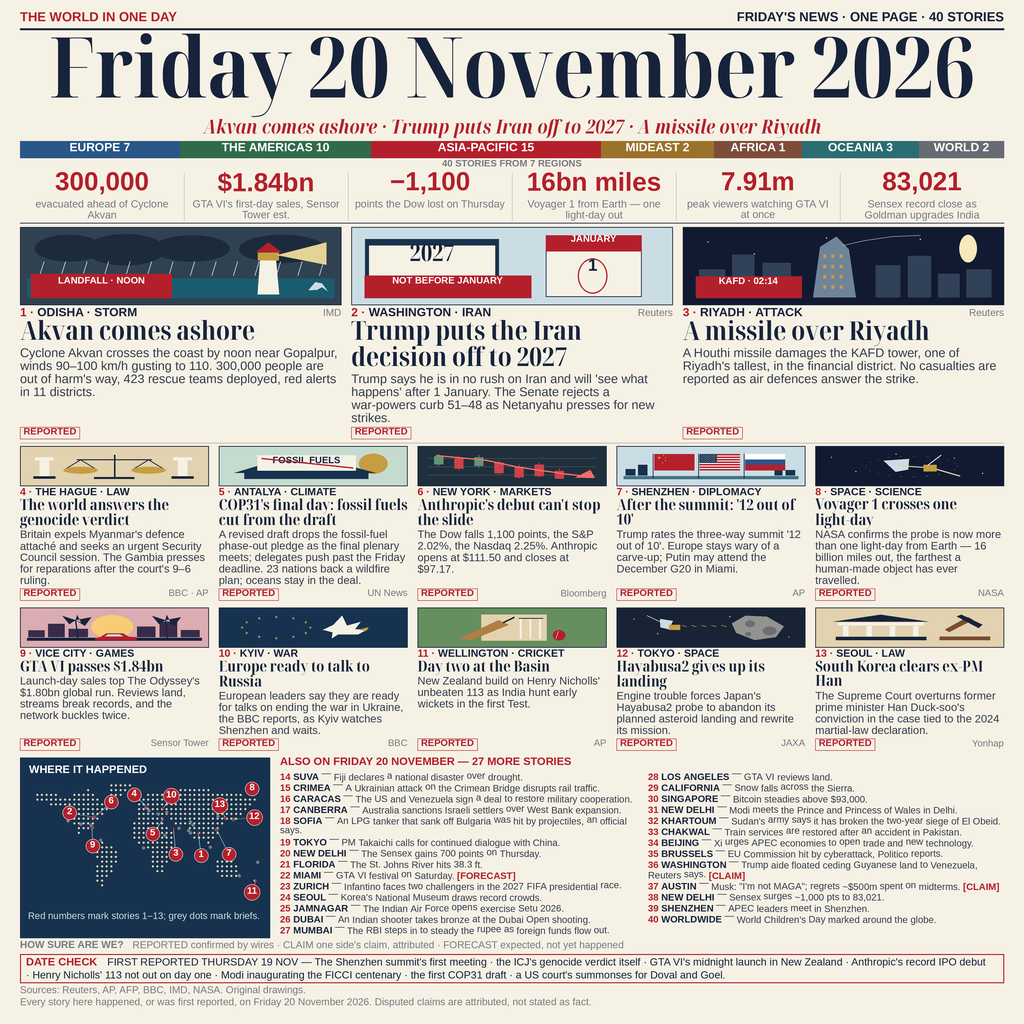
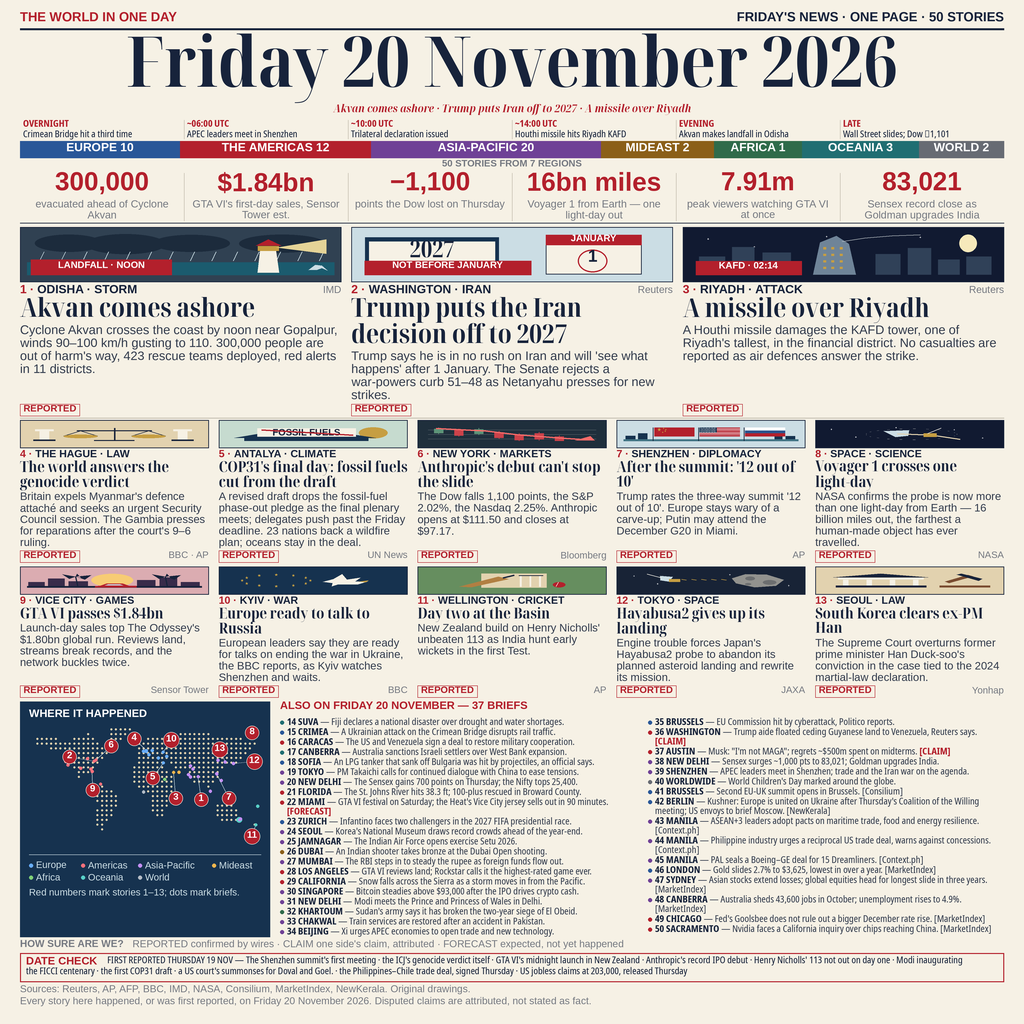
Fifty stories, UTC timeline, region colours; match the new #1

diff --git a/gen.py b/gen.py
@@ -44,6 +44,8 @@ FONT_PATHS = {
         "/usr/share/fonts/truetype/liberation/LiberationSans-Regular.ttf",
         "/usr/share/fonts/truetype/dejavu/DejaVuSans.ttf",
     ],
+    "sans_cond": ["/usr/share/fonts/truetype/noto/NotoSansDisplay-Condensed.ttf"],
+    "sans_cond_bold": ["/usr/share/fonts/truetype/noto/NotoSansDisplay-CondensedBold.ttf"],
 }
 
 
@@ -112,6 +114,16 @@ BRIEFS = [
     (38, "NEW DELHI", "Sensex surges ~1,000 pts to 83,021; Goldman upgrades India."),
     (39, "SHENZHEN", "APEC leaders meet in Shenzhen; trade and the Iran war on the agenda."),
     (40, "WORLDWIDE", "World Children's Day marked around the globe."),
+    (41, "BRUSSELS", "Second EU-UK summit opens in Brussels. [Consilium]"),
+    (42, "BERLIN", "Kushner: Europe is united on Ukraine after Thursday's Coalition of the Willing meeting; US envoys to brief Moscow. [NewKerala]"),
+    (43, "MANILA", "ASEAN+3 leaders adopt pacts on maritime trade, food and energy resilience. [Context.ph]"),
+    (44, "MANILA", "Philippine industry urges a reciprocal US trade deal, warns against concessions. [Context.ph]"),
+    (45, "MANILA", "PAL seals a Boeing–GE deal for 15 Dreamliners. [Context.ph]"),
+    (46, "LONDON", "Gold slides 2.7% to $3,625, lowest in over a year. [MarketIndex]"),
+    (47, "SYDNEY", "Asian stocks extend losses; global equities head for longest slide in three years. [MarketIndex]"),
+    (48, "CANBERRA", "Australia sheds 43,600 jobs in October; unemployment rises to 4.9%. [MarketIndex]"),
+    (49, "CHICAGO", "Fed's Goolsbee does not rule out a bigger December rate rise. [MarketIndex]"),
+    (50, "SACRAMENTO", "Nvidia faces a California inquiry over chips reaching China. [MarketIndex]"),
 ]
 
 STATS = [
@@ -123,16 +135,25 @@ STATS = [
     ("83,021", "Sensex record close as Goldman upgrades India"),
 ]
 REGIONS = [
-    ("EUROPE", 7, (41, 87, 134)),
-    ("THE AMERICAS", 10, (47, 107, 74)),
-    ("ASIA-PACIFIC", 15, RED),
-    ("MIDEAST", 2, (155, 114, 42)),
-    ("AFRICA", 1, (125, 77, 58)),
-    ("OCEANIA", 3, (42, 109, 115)),
-    ("WORLD", 2, (103, 107, 115)),
+    ("EUROPE", 10, (41, 87, 152), (105, 174, 252), (4, 5, 10, 15, 18, 23, 35, 41, 42, 46)),
+    ("THE AMERICAS", 12, RED, (250, 113, 124), (2, 6, 9, 16, 21, 22, 28, 29, 36, 37, 49, 50)),
+    ("ASIA-PACIFIC", 20, (111, 65, 150), (195, 143, 246), (1, 7, 12, 13, 19, 20, 24, 25, 27, 30, 31, 33, 34, 38, 39, 43, 44, 45, 47, 48)),
+    ("MIDEAST", 2, (139, 95, 24), (241, 182, 78), (3, 26)),
+    ("AFRICA", 1, (47, 107, 74), (128, 209, 120), (32,)),
+    ("OCEANIA", 3, (32, 110, 114), (89, 209, 200), (11, 14, 17)),
+    ("WORLD", 2, (103, 107, 115), (181, 189, 199), (8, 40)),
 ]
-DATE_CHECK = "The Shenzhen summit's first meeting · the ICJ's genocide verdict itself · GTA VI's midnight launch in New Zealand · Anthropic's record IPO debut · Henry Nicholls' 113 not out on day one · Modi inaugurating the FICCI centenary · the first COP31 draft · a US court's summonses for Doval and Goel."
-SOURCES = "Sources: Reuters, AP, AFP, BBC, IMD, NASA. Original drawings."
+REGION_COLORS = {number: (color, map_color) for _, _, color, map_color, numbers in REGIONS for number in numbers}
+TIMELINE = [
+    ("OVERNIGHT", "Crimean Bridge hit a third time"),
+    ("~06:00 UTC", "APEC leaders meet in Shenzhen"),
+    ("~10:00 UTC", "Trilateral declaration issued"),
+    ("~14:00 UTC", "Houthi missile hits Riyadh KAFD"),
+    ("EVENING", "Akvan makes landfall in Odisha"),
+    ("LATE", "Wall Street slides; Dow −1,101"),
+]
+DATE_CHECK = "The Shenzhen summit's first meeting · the ICJ's genocide verdict itself · GTA VI's midnight launch in New Zealand · Anthropic's record IPO debut · Henry Nicholls' 113 not out on day one · Modi inaugurating the FICCI centenary · the first COP31 draft · a US court's summonses for Doval and Goel. · the Philippines–Chile trade deal, signed Thursday · US jobless claims at 203,000, released Thursday"
+SOURCES = "Sources: Reuters, AP, AFP, BBC, IMD, NASA, Consilium, MarketIndex, NewKerala. Original drawings."
 FOOTER = "Every story here happened, or was first reported, on Friday 20 November 2026. Disputed claims are attributed, not stated as fact."
 
 
@@ -155,21 +176,6 @@ def wrap(text, width, kind, size):
     if current:
         lines.append(current)
     return lines
-
-
-BRIEF_CUTS = {
-    14: "Fiji declares a national disaster over drought.",
-    19: "PM Takaichi calls for continued dialogue with China.",
-    20: "The Sensex gains 700 points on Thursday.",
-    21: "The St. Johns River hits 38.3 ft.",
-    22: "GTA VI festival on Saturday. [FORECAST]",
-    24: "Korea's National Museum draws record crowds.",
-    28: "GTA VI reviews land.",
-    29: "Snow falls across the Sierra.",
-    30: "Bitcoin steadies above $93,000.",
-    38: "Sensex surges ~1,000 pts to 83,021.",
-    39: "APEC leaders meet in Shenzhen.",
-}
 
 
 class Page:
@@ -477,12 +483,10 @@ def draw_card(page, story, left, top, width, art_height, row_bottom):
 
 
 def rich_tokens(number, place, text):
-    tokens = [(str(number), "sans_bold", RED)]
-    tokens.extend((word, "sans_bold", INK) for word in place.split())
-    tokens.append(("—", "sans", SLATE))
+    tokens = [(f"{number} {place}", "sans_cond_bold", INK), ("—", "sans_cond", SLATE)]
     for word in text.split():
         tagged = word in ("[CLAIM]", "[FORECAST]")
-        tokens.append((word, "sans_bold" if tagged else "sans", RED if tagged else SLATE))
+        tokens.append((word, "sans_cond_bold" if tagged else "sans_cond", RED if tagged else SLATE))
     return tokens
 
 
@@ -508,23 +512,24 @@ def rich_lines(tokens, width, size):
 def draw_briefs(page, left, top, width):
     column_width = (width - 12) / 2
     size = 9.5
-    leading = 10.5
+    leading = 9.5
+    entries = [(number, rich_lines(rich_tokens(number, place, text), column_width - 8, size)) for number, place, text in BRIEFS]
+    heights = [len(lines) * leading + 0.5 for _, lines in entries]
+    split = min(range(1, len(entries)), key=lambda index: abs(sum(heights[:index]) - sum(heights[index:])))
     end_positions = []
-    for column_index, entries in enumerate((BRIEFS[:14], BRIEFS[14:])):
+    for column_index, column in enumerate((entries[:split], entries[split:])):
         cursor = top
-        for number, place, original in entries:
-            text = BRIEF_CUTS.get(number, original)
-            if number in BRIEF_CUTS:
-                untagged = text.replace(" [FORECAST]", "").rstrip(".")
-                if not original.startswith(untagged):
-                    raise ValueError(f"Brief {number} is not a trailing cut")
-            tokens = rich_tokens(number, place, text)
-            lines = rich_lines(tokens, column_width, size)
+        column_left = left + column_index * (column_width + 12)
+        for number, lines in column:
+            page.ellipse((column_left, cursor + 3, column_left + 4, cursor + 7), REGION_COLORS[number][0])
             for line_index, line in enumerate(lines):
-                horizontal = left + column_index * (column_width + 12)
+                horizontal = column_left + 7
+                baseline = cursor + line_index * leading + 7.5
                 for word, kind, color, space, word_width in line:
                     horizontal += space
-                    page.text(word, (horizontal, cursor + line_index * leading, horizontal + word_width + 0.6, cursor + line_index * leading + 10.5), kind, size, color, max_lines=1)
+                    bounds = font(kind, size).getbbox(word, anchor="ls")
+                    ink_top = baseline + bounds[1] / SCALE
+                    page.text(word, (horizontal + bounds[0] / SCALE, ink_top, horizontal + word_width + 1, baseline + bounds[3] / SCALE), kind, size, color, max_lines=1)
                     horizontal += word_width
             cursor += len(lines) * leading + 0.5
         end_positions.append(cursor)
@@ -568,19 +573,22 @@ def draw_map(page, box):
     map_left = left + 8
     map_top = top + 23
     map_width = width - 19
-    map_height = min(119, bottom - top - 61)
+    map_height = min(119, bottom - top - 67)
     for horizontal in range(4, 104, 2):
         for vertical in range(0, 100, 4):
             if any(inside_polygon(horizontal, vertical, continent) for continent in continents):
                 center_horizontal = map_left + horizontal / 100 * map_width
                 center_vertical = map_top + vertical / 100 * map_height
                 page.ellipse((center_horizontal - 1, center_vertical - 1, center_horizontal + 1, center_vertical + 1), TAN)
-    brief_locations = [(178, -18), (36, 45), (-67, 10), (149, -35), (23, 43), (140, 36), (77, 29), (-82, 29), (-80, 26), (8.5, 47), (127, 38), (70, 22), (55, 25), (73, 19), (-118, 34), (-120, 39), (104, 1), (77, 29), (33, 16), (73, 33), (116, 40), (4, 51), (-77, 39), (-98, 30), (77, 29), (114, 23), (0, 0)]
-    for longitude, latitude in brief_locations:
+    brief_locations = [(178, -18), (36, 45), (-67, 10), (149, -35), (23, 43), (140, 36), (77, 29), (-82, 29), (-80, 26), (8.5, 47), (127, 38), (70, 22), (55, 25), (73, 19), (-118, 34), (-120, 39), (104, 1), (77, 29), (33, 16), (73, 33), (116, 40), (4, 51), (-77, 39), (-98, 30), (77, 29), (114, 23), (0, 0), (4, 51), (13.4, 52.5), (121, 14.6), (121, 14.6), (121, 14.6), (-0.1, 51.5), (151.2, -33.9), (149, -35), (-87.6, 41.9), (-121.5, 38.6)]
+    for number, (longitude, latitude) in enumerate(brief_locations, start=14):
         horizontal, vertical = project(longitude, latitude)
         center_horizontal = map_left + horizontal / 100 * map_width
         center_vertical = map_top + vertical / 100 * map_height
-        page.ellipse((center_horizontal - 1.6, center_vertical - 1.6, center_horizontal + 1.6, center_vertical + 1.6), GREY)
+        radius = 1.6
+        if (longitude, latitude) == (149, -35):
+            radius = 2.8 if number == 17 else 1.2
+        page.ellipse((center_horizontal - radius, center_vertical - radius, center_horizontal + radius, center_vertical + radius), REGION_COLORS[number][1])
     pins = {
         1: ((84.9, 19.3), (75, 63)), 2: ((-77, 38.9), (18, 27)),
         3: ((46.6, 24.7), (64, 62)), 4: ((4.3, 52.1), (46, 12)),
@@ -599,32 +607,47 @@ def draw_map(page, box):
             anchor_horizontal = map_left + anchor_horizontal / 100 * map_width
             anchor_vertical = map_top + anchor_vertical / 100 * map_height
             page.line([(center_horizontal, center_vertical), (anchor_horizontal, anchor_vertical)], SEA, 0.45)
-            page.ellipse((anchor_horizontal - 1, anchor_vertical - 1, anchor_horizontal + 1, anchor_vertical + 1), RED)
+            page.ellipse((anchor_horizontal - 1.5, anchor_vertical - 1.5, anchor_horizontal + 1.5, anchor_vertical + 1.5), REGION_COLORS[number][1])
         radius = 8 if number >= 10 else 7
         page.ellipse((center_horizontal - radius, center_vertical - radius, center_horizontal + radius, center_vertical + radius), RED, PAPER, 0.6)
         page.text(str(number), (center_horizontal - radius + 1, center_vertical - 5, center_horizontal + radius - 1, center_vertical + 6), "sans_bold", 9.5, WHITE, align="center", max_lines=1)
-    page.text("Red numbers mark stories 1–13; grey dots mark briefs.", (left + 8, bottom - 26, right - 8, bottom - 6), "sans", 9.5, SEA, 10.5, max_lines=2)
+    legend_top = map_top + map_height + 11
+    page.line([(left + 9, legend_top), (right - 9, legend_top)], SEA, 0.5)
+    for index, (name, _, _, color, _) in enumerate(REGIONS):
+        row, column = divmod(index, 4)
+        horizontal = left + 9 + (0, 52, 109, 183)[column]
+        vertical = legend_top + 7 + row * 12
+        page.ellipse((horizontal, vertical + 2, horizontal + 4, vertical + 6), color)
+        label = name.removeprefix("THE ").title()
+        page.text(label, (horizontal + 7, vertical, right - 8, vertical + 10), "sans", 9.5, SEA, max_lines=1)
+    page.text("Red numbers mark stories 1–13; dots mark briefs.", (left + 9, legend_top + 34, right - 8, bottom - 6), "sans", 9.5, SEA, max_lines=1)
 
 
 def render():
-    if len(STORIES) + len(BRIEFS) != 40 or sum(count for _, count, _ in REGIONS) != 40:
-        raise ValueError("Story and region counts must both be 40")
+    if len(STORIES) != 13 or len(BRIEFS) != 37 or sum(count for _, count, _, _, _ in REGIONS) != 50:
+        raise ValueError("Expected 13 cards, 37 briefs, and 50 stories")
     page = Page()
     measurements = {}
     page.text("THE WORLD IN ONE DAY", (20, 12, 350, 27), "sans_bold", 13, RED, max_lines=1)
-    page.text("FRIDAY'S NEWS · ONE PAGE · 40 STORIES", (600, 12, 1004, 27), "sans_bold", 13, INK, align="right", max_lines=1)
+    page.text("FRIDAY'S NEWS · ONE PAGE · 50 STORIES", (600, 12, 1004, 27), "sans_bold", 13, INK, align="right", max_lines=1)
     page.line([(20, 29), (1004, 29)], INK, 2)
     measurements["brand bottom"] = 30
-    page.text("Friday 20 November 2026", (20, 33, 1004, 117), "serif_cond_bold", 84, INK, align="center", max_lines=1)
-    page.text("Akvan comes ashore · Trump puts Iran off to 2027 · A missile over Riyadh", (20, 119, 1004, 140), "serif_cond_bitalic", 19, RED, align="center", max_lines=1)
+    page.text("Friday 20 November 2026", (20, 33, 1004, 104), "serif_cond_bold", 70, INK, align="center", max_lines=1)
+    page.text("Akvan comes ashore · Trump puts Iran off to 2027 · A missile over Riyadh", (20, 104, 1004, 118), "serif_cond_bitalic", 11, RED, align="center", max_lines=1)
+    for index, (label, event) in enumerate(TIMELINE):
+        slot_left = 20 + index * 164
+        if index:
+            page.line([(slot_left, 120), (slot_left, 139)], RULE, 0.5)
+        page.text(label, (slot_left + 3, 120, slot_left + 161, 129), "sans_cond_bold", 9.5, RED, max_lines=1)
+        page.text(event, (slot_left + 3, 130, slot_left + 161, 140), "sans_cond", 9.5, INK, max_lines=1)
     measurements["masthead bottom"] = 140
     region_widths = [160, 191, 230, 113, 88, 117, 85]
     horizontal = 20
-    for (name, count, color), tab_width in zip(REGIONS, region_widths):
+    for (name, count, color, _, _), tab_width in zip(REGIONS, region_widths):
         page.rectangle((horizontal, 141, horizontal + tab_width, 158), color)
         page.text(f"{name} {count}", (horizontal + 3, 143, horizontal + tab_width - 3, 156), "sans_bold", 12, WHITE, align="center", max_lines=1)
         horizontal += tab_width
-    page.text("40 STORIES FROM 7 REGIONS", (20, 160, 1004, 170), "sans_bold", 9.5, GREY, align="center", max_lines=1)
+    page.text("50 STORIES FROM 7 REGIONS", (20, 160, 1004, 170), "sans_bold", 9.5, GREY, align="center", max_lines=1)
     stat_width = 984 / 6
     for index, (number, caption) in enumerate(STATS):
         left = 20 + index * stat_width
@@ -635,25 +658,26 @@ def render():
     page.line([(20, 223), (1004, 223)], INK, 0.8)
     measurements["stat band bottom"] = 224
     cursor = 227
-    art_height = 78
+    art_height = 55
     lead_bottom = cursor + max(card_height(story, art_height) for story in STORIES[:3])
     for index, story in enumerate(STORIES[:3]):
         draw_card(page, story, 20 + index * (984 + 10) / 3, cursor, (984 - 20) / 3, art_height, lead_bottom)
     measurements["lead row bottom"] = lead_bottom
-    cursor = lead_bottom + 7
-    page.line([(20, cursor - 3), (1004, cursor - 3)], RULE, 0.7)
+    cursor = lead_bottom + 4
+    page.line([(20, cursor - 2), (1004, cursor - 2)], RULE, 0.7)
     for row_index in range(2):
         stories = STORIES[3 + row_index * 5:8 + row_index * 5]
-        row_bottom = cursor + max(card_height(story, 40) for story in stories)
+        row_bottom = cursor + max(card_height(story, 28) for story in stories)
         for column_index, story in enumerate(stories):
-            draw_card(page, story, 20 + column_index * (984 + 10) / 5, cursor, (984 - 40) / 5, 40, row_bottom)
-        cursor = row_bottom + 7
+            draw_card(page, story, 20 + column_index * (984 + 10) / 5, cursor, (984 - 40) / 5, 28, row_bottom)
+        cursor = row_bottom + 4
     measurements["grid bottom"] = cursor - 7
     bottom_top = cursor
     map_width = 250
     brief_left = 20 + map_width + 10
-    page.text("ALSO ON FRIDAY 20 NOVEMBER — 27 MORE STORIES", (brief_left, bottom_top, 1004, bottom_top + 14), "sans_bold", 11, RED, max_lines=1)
-    bottom_end = draw_briefs(page, brief_left, bottom_top + 16, 1004 - brief_left)
+    page.text("ALSO ON FRIDAY 20 NOVEMBER — 37 BRIEFS", (brief_left, bottom_top, 1004, bottom_top + 14), "sans_bold", 11, RED, max_lines=1)
+    briefs_end = draw_briefs(page, brief_left, bottom_top + 16, 1004 - brief_left)
+    bottom_end = max(briefs_end, bottom_top + 205)
     draw_map(page, (20, bottom_top, 20 + map_width, bottom_end))
     measurements["bottom-zone bottom"] = bottom_end
     legend_top = bottom_end + 3
@@ -667,12 +691,12 @@ def render():
     date_label_width = measure(date_label, "sans_bold", 11)
     page.text(date_label, (26, date_top + 4, 27 + date_label_width, date_top + 16), "sans_bold", 11, RED, max_lines=1)
     prefix = "FIRST REPORTED THURSDAY 19 NOV — "
-    date_text = prefix + DATE_CHECK
-    date_lines = wrap(date_text, 965 - date_label_width - 10, "sans", 10.5)
-    if len(date_lines) != 2:
-        raise ValueError("DATE CHECK must occupy two lines")
-    page.text(date_lines[0], (36 + date_label_width, date_top + 4, 997, date_top + 16), "sans", 10.5, INK, max_lines=1)
-    page.text(date_lines[1], (26, date_top + 17, 997, date_top + 29), "sans", 10.5, INK, max_lines=1)
+    date_lines = wrap(prefix + DATE_CHECK, 950 - date_label_width - 10, "sans_cond", 9.5)
+    if len(date_lines) > 2:
+        raise ValueError("DATE CHECK must occupy at most two lines")
+    for index, line in enumerate(date_lines):
+        left = 36 + date_label_width if index == 0 else 26
+        page.text(line, (left, date_top + 3 + index * 11, 997, date_top + 14 + index * 11), "sans_cond", 9.5, INK, max_lines=1)
     footer_top = date_top + 32
     page.text(SOURCES, (20, footer_top, 1004, footer_top + 11), "sans", 10, GREY, max_lines=1)
     page.text(FOOTER, (20, footer_top + 12, 1004, footer_top + 23), "sans", 10, GREY, max_lines=1)

diff --git a/README.md b/README.md
@@ -1,6 +1,6 @@
 # The world in one day — Friday 20 November 2026
 
-A 1024×1024 cream-paper news front page: **40 stories from 7 regions**, with 13 original illustrated cards, 27 numbered briefs, six statistics, a dotted locator map, source and status labels, and a Thursday date check. Story copy and attribution follow the supplied competition brief; selected briefs omit trailing clauses to fit the page.
+A 1024×1024 cream-paper news front page: **50 stories from 7 regions**, with 13 original illustrated cards, 37 numbered briefs, a UTC timeline, six statistics, a region-coloured locator map, source and status labels, and a Thursday date check. Story copy and attribution follow the supplied competition brief.
 
 `python3 gen.py` deterministically renders `entry.png` with Pillow and system fonts, checks every text block and illustration inset, and prints section measurements and the image hash. All 13 card decks retain their supplied wording. The dense format uses up to five secondary deck lines and 9.5px brief text; all type is at least 9.5px. `layout.json` records the measured layout.
 
